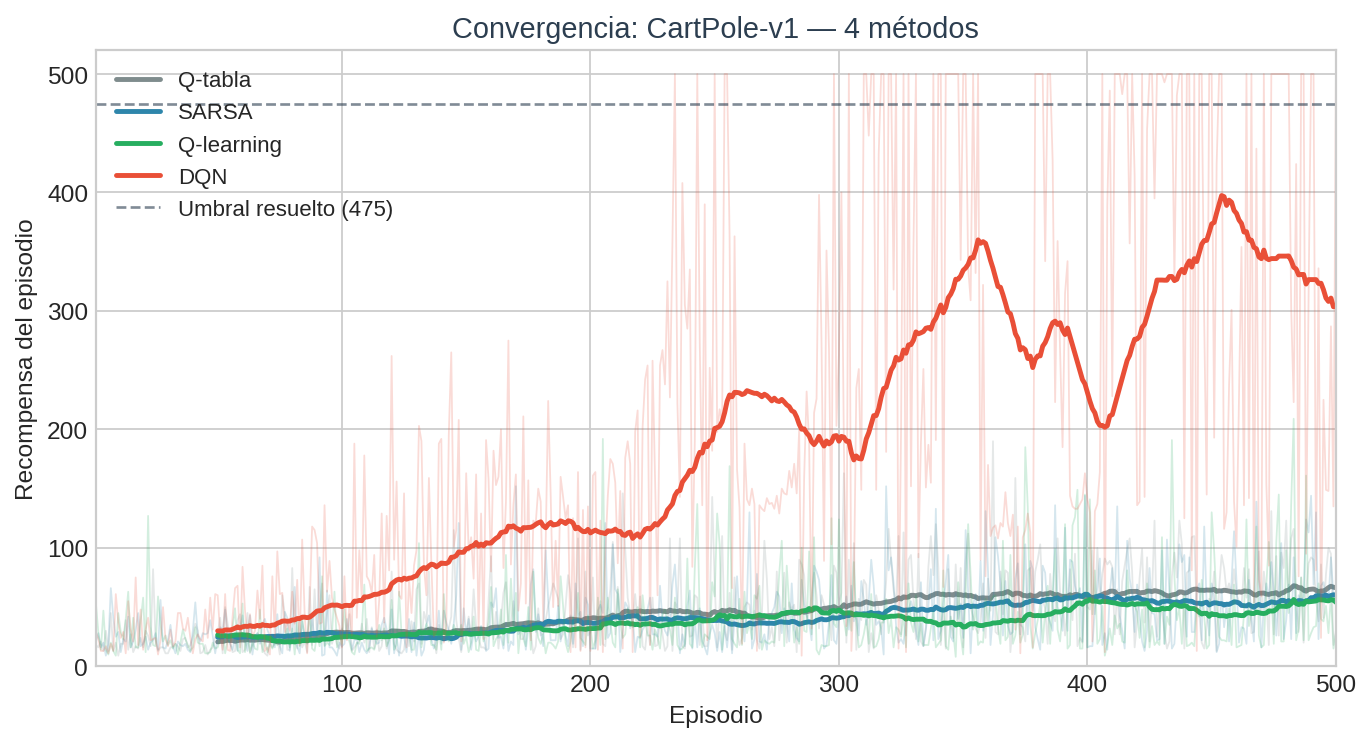
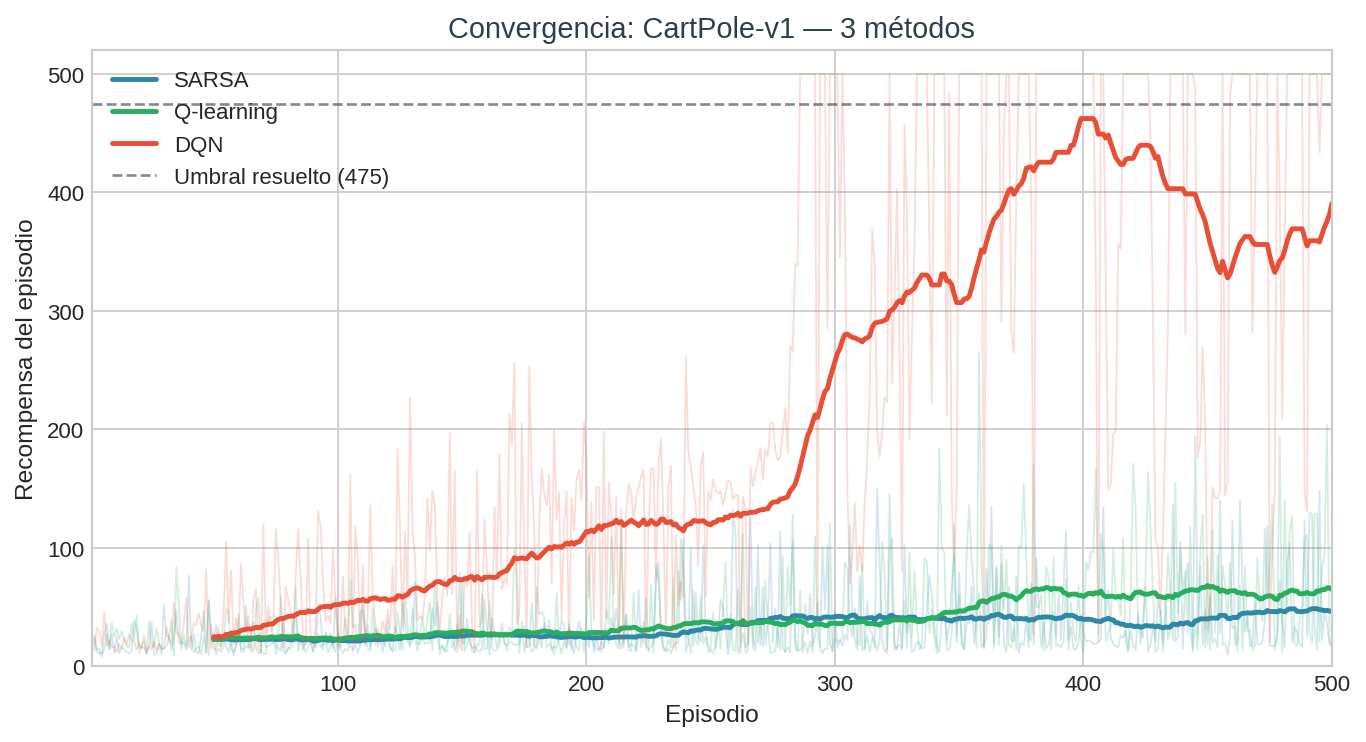
fixed plots q-table vs  q-learning

diff --git a/clase/23_reinforcement_learning/deep_rl/lab_deep_rl.py b/clase/23_reinforcement_learning/deep_rl/lab_deep_rl.py
@@ -11,7 +11,7 @@ Genera 6 imágenes en:
     08_dqn_architecture.png      — diagrama de la red neuronal DQN
     09_experience_replay.png     — buffer de repetición de experiencia
     10_target_network.png        — red online vs red objetivo
-    11_convergence_comparison.png — comparación Q-tabla / SARSA / Q-learning / DQN
+    11_convergence_comparison.png — comparación SARSA / Q-learning / DQN
     12_loss_curve.png            — pérdida de entrenamiento DQN
     13_cartpole_frames.png       — fotogramas de un episodio resuelto
 
@@ -372,46 +372,6 @@ def _discretize(obs, bins):
     return i0, i1, i2, i3
 
 
-def run_qtable(n_episodes=500, alpha=0.1, gamma=0.99,
-               eps_start=1.0, eps_end=0.05, eps_decay=0.995):
-    """Q-learning tabular en CartPole-v1 con estado discretizado."""
-    env = gym.make("CartPole-v1")
-    bins = _make_bins()
-    Q = np.zeros((10, 10, 10, 10, 2))
-    eps = eps_start
-    returns = []
-
-    for _ in range(n_episodes):
-        obs, _ = env.reset()
-        state = _discretize(obs, bins)
-        done = False
-        G = 0.0
-
-        while not done:
-            if np.random.random() < eps:
-                action = env.action_space.sample()
-            else:
-                action = int(np.argmax(Q[state]))
-
-            obs2, reward, terminated, truncated, _ = env.step(action)
-            done = terminated or truncated
-            G += reward
-            next_state = _discretize(obs2, bins)
-
-            # Q-learning update (off-policy)
-            best_next = float(np.max(Q[next_state])) if not done else 0.0
-            Q[state][action] += alpha * (
-                reward + gamma * best_next - Q[state][action]
-            )
-            state = next_state
-
-        eps = max(eps_end, eps * eps_decay)
-        returns.append(G)
-
-    env.close()
-    return returns
-
-
 def run_sarsa(n_episodes=500, alpha=0.1, gamma=0.99,
               eps_start=1.0, eps_end=0.05, eps_decay=0.995):
     """SARSA (on-policy) en CartPole-v1 con estado discretizado."""
@@ -465,9 +425,41 @@ def run_sarsa(n_episodes=500, alpha=0.1, gamma=0.99,
 
 def run_qlearning_tabular(n_episodes=500, alpha=0.1, gamma=0.99,
                            eps_start=1.0, eps_end=0.05, eps_decay=0.995):
-    """Q-learning tabular (alias explícito) en CartPole-v1."""
-    return run_qtable(n_episodes=n_episodes, alpha=alpha, gamma=gamma,
-                      eps_start=eps_start, eps_end=eps_end, eps_decay=eps_decay)
+    """Q-learning tabular (off-policy) en CartPole-v1 con estado discretizado."""
+    env = gym.make("CartPole-v1")
+    bins = _make_bins()
+    Q = np.zeros((10, 10, 10, 10, 2))
+    eps = eps_start
+    returns = []
+
+    for _ in range(n_episodes):
+        obs, _ = env.reset()
+        state = _discretize(obs, bins)
+        done = False
+        G = 0.0
+
+        while not done:
+            if np.random.random() < eps:
+                action = env.action_space.sample()
+            else:
+                action = int(np.argmax(Q[state]))
+
+            obs2, reward, terminated, truncated, _ = env.step(action)
+            done = terminated or truncated
+            G += reward
+            next_state = _discretize(obs2, bins)
+
+            best_next = float(np.max(Q[next_state])) if not done else 0.0
+            Q[state][action] += alpha * (
+                reward + gamma * best_next - Q[state][action]
+            )
+            state = next_state
+
+        eps = max(eps_end, eps * eps_decay)
+        returns.append(G)
+
+    env.close()
+    return returns
 
 
 # ============================================================================
@@ -601,13 +593,11 @@ def run_dqn(n_episodes=500, alpha=1e-3, gamma=0.99,
 # ============================================================================
 # Plot 11 — Comparación de convergencia
 # ============================================================================
-def plot_convergence_comparison(returns_qtable, returns_sarsa,
-                                 returns_qlearning, returns_dqn) -> None:
-    """Curvas de aprendizaje de los 4 métodos superpuestas."""
+def plot_convergence_comparison(returns_sarsa, returns_qlearning, returns_dqn) -> None:
+    """Curvas de aprendizaje de los 3 métodos superpuestas."""
     fig, ax = plt.subplots(figsize=(10, 5))
 
     methods = [
-        ("Q-tabla",    returns_qtable,    COLORS["gray"]),
         ("SARSA",      returns_sarsa,     COLORS["blue"]),
         ("Q-learning", returns_qlearning, COLORS["green"]),
         ("DQN",        returns_dqn,       COLORS["red"]),
@@ -760,8 +750,6 @@ def main() -> None:
     # Entrenamiento de métodos tabulares
     print()
     print("Entrenando métodos tabulares (500 episodios cada uno)...")
-    print("  → Q-tabla...")
-    returns_qtable = run_qtable()
     print("  → SARSA...")
     returns_sarsa = run_sarsa()
     print("  → Q-learning tabular...")
@@ -775,8 +763,7 @@ def main() -> None:
     # Gráficas de resultados
     print()
     print("Generando gráficas de resultados...")
-    plot_convergence_comparison(returns_qtable, returns_sarsa,
-                                returns_qlearning, returns_dqn)
+    plot_convergence_comparison(returns_sarsa, returns_qlearning, returns_dqn)
     plot_loss_curve(loss_history)
 
     # Fotogramas del agente entrenado

diff --git a/clase/23_reinforcement_learning/deep_rl/demo_cartpole.py b/clase/23_reinforcement_learning/deep_rl/demo_cartpole.py
@@ -3,8 +3,8 @@ demo_cartpole.py — Demo interactivo de métodos de RL en CartPole-v1.
 
 Uso:
     python demo_cartpole.py --method dqn                       # ventana live con DQN
-    python demo_cartpole.py --method qtable --speed fast       # Q-tabla, actualización rápida
-    python demo_cartpole.py --compare --episodes 300           # comparar 4 métodos
+    python demo_cartpole.py --method qlearning --speed fast    # Q-learning tabular
+    python demo_cartpole.py --compare --episodes 300           # comparar 3 métodos
     python demo_cartpole.py --method sarsa --episodes 200 --speed slow
 
 En modo live se abre una ventana con 4 paneles:
@@ -13,7 +13,7 @@ En modo live se abre una ventana con 4 paneles:
     - Abajo izquierda  : pérdida MSE (DQN) o decaimiento ε (tabular)
     - Abajo derecha    : distribución Q-valores (DQN) o heatmap Q-tabla (tabular)
 
-En modo --compare se ejecutan los 4 métodos en secuencia con barras de progreso
+En modo --compare se ejecutan los 3 métodos en secuencia con barras de progreso
 en terminal y al final se abre una sola ventana con las curvas superpuestas.
 """
 from __future__ import annotations
@@ -63,14 +63,12 @@ COLORS = {
 }
 
 METHOD_COLORS = {
-    "qtable":    COLORS["gray"],
     "sarsa":     COLORS["blue"],
     "qlearning": COLORS["green"],
     "dqn":       COLORS["red"],
 }
 
 METHOD_LABELS = {
-    "qtable":    "Q-tabla",
     "sarsa":     "SARSA",
     "qlearning": "Q-learning",
     "dqn":       "DQN",
@@ -572,10 +570,10 @@ def _train_headless(method: str, n_episodes: int) -> list[float]:
 # ─────────────────────────────────────────────────────────────────────────────
 
 def run_compare(n_episodes: int) -> None:
-    """Ejecuta los 4 métodos secuencialmente y muestra la ventana final."""
-    print("\nComparando 4 métodos en CartPole-v1:\n")
+    """Ejecuta los 3 métodos secuencialmente y muestra la ventana final."""
+    print("\nComparando 3 métodos en CartPole-v1:\n")
     all_returns: dict[str, list[float]] = {}
-    for i, m in enumerate(["qtable", "sarsa", "qlearning", "dqn"]):
+    for i, m in enumerate(["sarsa", "qlearning", "dqn"]):
         print(f"[{i+1}/4] {METHOD_LABELS[m]}")
         all_returns[m] = _train_headless(m, n_episodes)
         print()
@@ -588,7 +586,7 @@ def _show_comparison_window(results: dict, n_episodes: int) -> None:
     fig, ax = plt.subplots(figsize=(12, 6))
 
     window = 50
-    for m in ["qtable", "sarsa", "qlearning", "dqn"]:
+    for m in ["sarsa", "qlearning", "dqn"]:
         rets = results.get(m, [])
         if not rets:
             continue
@@ -667,14 +665,14 @@ def parse_args():
         epilog="""
 Ejemplos:
   python demo_cartpole.py --method dqn
-  python demo_cartpole.py --method qtable --speed fast
+  python demo_cartpole.py --method qlearning --speed fast
   python demo_cartpole.py --compare --episodes 300
   python demo_cartpole.py --method sarsa --episodes 200 --speed slow
         """
     )
     p.add_argument(
         "--method",
-        choices=["qtable", "sarsa", "qlearning", "dqn"],
+        choices=["sarsa", "qlearning", "dqn"],
         default="dqn",
         help="Algoritmo a ejecutar (default: dqn)"
     )

diff --git a/clase/23_reinforcement_learning/deep_rl/README.md b/clase/23_reinforcement_learning/deep_rl/README.md
@@ -1,7 +1,7 @@
 # Deep RL — CartPole Lab
 
 Live demo and image generation scripts for Module 23 (Reinforcement Learning).
-Trains four methods — Q-table, SARSA, Q-learning, DQN — on CartPole-v1 and lets you
+Trains three methods — SARSA, Q-learning, DQN — on CartPole-v1 and lets you
 watch them learn in real time.
 
 ---
@@ -54,7 +54,7 @@ deactivate
 # Watch DQN learn (recommended first run)
 python demo_cartpole.py --method dqn
 
-# Compare all 4 methods, then see a final summary plot
+# Compare all 3 methods, then see a final summary plot
 python demo_cartpole.py --compare
 ```
 
@@ -62,8 +62,8 @@ python demo_cartpole.py --compare
 
 | Flag | Options | Default | Description |
 |------|---------|---------|-------------|
-| `--method` | `qtable` `sarsa` `qlearning` `dqn` | `dqn` | Algorithm to train |
-| `--compare` | — | off | Run all 4 methods sequentially, show final comparison |
+| `--method` | `sarsa` `qlearning` `dqn` | `dqn` | Algorithm to train |
+| `--compare` | — | off | Run all 3 methods sequentially, show final comparison |
 | `--episodes` | any integer | `500` | Number of training episodes |
 | `--speed` | `fast` `normal` `slow` | `normal` | How often to update the animation window |
 
@@ -84,18 +84,17 @@ python demo_cartpole.py --method dqn
 # Faster run — 200 episodes, update window every 20 steps
 python demo_cartpole.py --method dqn --episodes 200 --speed fast
 
-# Watch a tabular method (Q-table or SARSA or Q-learning)
-python demo_cartpole.py --method qtable
+# Watch a tabular method (SARSA or Q-learning)
 python demo_cartpole.py --method sarsa
 python demo_cartpole.py --method qlearning
 
 # Slow motion — see every step clearly
 python demo_cartpole.py --method dqn --episodes 100 --speed slow
 
-# Compare all 4 methods with 300 episodes each
+# Compare all 3 methods with 300 episodes each
 python demo_cartpole.py --compare --episodes 300
 
-# Quick comparison (150 episodes per method, ~3-4 min total)
+# Quick comparison (150 episodes per method, ~2-3 min total)
 python demo_cartpole.py --compare --episodes 150
 ```
 
@@ -147,11 +146,11 @@ Shows at a glance: current episode, current ε, 50-episode average reward, and (
 
 The per-episode time in the terminal is itself a signal: if episodes are taking 2-4 seconds each, the pole is surviving for hundreds of steps — the agent is solving it.
 
-**With tabular methods (`--method qtable/sarsa/qlearning`):**
+**With tabular methods (`--method sarsa/qlearning`):**
 The reward curve climbs a bit early (the agent learns to avoid the worst actions) but then plateaus around 50-80. The discretization loses too much information — nearby continuous states get treated as unrelated. The Q-table heatmap shows which state regions got visited, but the agent can never generalize across bins.
 
 **With `--compare`:**
-The 4 methods run sequentially in the terminal (with tqdm progress bars). At the end, a single window shows all 4 convergence curves overlaid. The DQN line should climb clearly above the three flat tabular lines.
+The 3 methods run sequentially in the terminal (with tqdm progress bars). At the end, a single window shows all 3 convergence curves overlaid. The DQN line should climb clearly above the two flat tabular lines.
 
 ### Headless environments (no display)
 
@@ -180,7 +179,7 @@ Output goes to `../images/`. Expected runtime: ~5-8 minutes on a modern CPU.
 | 08 | `08_dqn_architecture.png` | Network diagram: 4→64→64→2 with ReLU |
 | 09 | `09_experience_replay.png` | Replay buffer: store arrow + random sample arrow |
 | 10 | `10_target_network.png` | Online vs frozen target network, copy arrow, TD equation |
-| 11 | `11_convergence_comparison.png` | All 4 methods over 500 episodes with rolling averages |
+| 11 | `11_convergence_comparison.png` | All 3 methods over 500 episodes with rolling averages |
 | 12 | `12_loss_curve.png` | DQN MSE loss vs training step with buffer-full annotation |
 | 13 | `13_cartpole_frames.png` | 4 frames from a solved episode (pole stays vertical) |
 

diff --git a/clase/23_reinforcement_learning/08_laboratorio_aplicado.md b/clase/23_reinforcement_learning/08_laboratorio_aplicado.md
@@ -48,16 +48,15 @@ Un agente aleatorio dura típicamente 10-20 pasos.
 
 ---
 
-## Los cuatro métodos en comparación
+## Los tres métodos en comparación
 
 | Método | Representación del estado | Tipo de política | ¿Converge en CartPole? | Episodios aprox. para resolver |
 |--------|--------------------------|-----------------|----------------------|-------------------------------|
-| Q-tabla | Discretizado $10^4$ bins | $\varepsilon$-greedy sobre tabla | Apenas (plateau ~50-80) | No resuelve |
 | SARSA | Discretizado $10^4$ bins | $\varepsilon$-greedy on-policy | Apenas (plateau ~50-80) | No resuelve |
 | Q-learning | Discretizado $10^4$ bins | $\varepsilon$-greedy off-policy | Apenas (plateau ~50-80) | No resuelve |
 | DQN | Continuo (4 valores reales) | $\varepsilon$-greedy sobre $Q_\theta$ | Sí | ~300-400 episodios |
 
-Los tres métodos tabulares usan 10 bins por dimensión → $10 \times 10 \times 10 \times 10 = 10{,}000$ estados discretos.
+Los dos métodos tabulares usan 10 bins por dimensión → $10 \times 10 \times 10 \times 10 = 10{,}000$ estados discretos.
 La discretización pierde información: dos estados con ángulos de $11.9°$ y $12.1°$ caen en bins distintos y reciben valores $Q$ completamente independientes.
 DQN no discretiza — procesa los 4 valores directamente y puede interpolar entre estados similares.
 
@@ -94,11 +93,11 @@ Una pérdida que no baja es señal de que la tasa de aprendizaje es demasiado al
 python demo_cartpole.py --compare --episodes 300
 ```
 
-Los cuatro métodos corren en paralelo.
+Los tres métodos corren en secuencia.
 Al final se muestra un gráfico con la media móvil de 50 episodios para cada uno.
 
 La diferencia es visual e inmediata:
-- Q-tabla, SARSA y Q-learning forman tres líneas planas a baja recompensa (~50-80).
+- SARSA y Q-learning forman dos líneas planas a baja recompensa (~50-80).
 - DQN sube continuamente hasta cruzar 475.
 
 ---
@@ -107,7 +106,7 @@ La diferencia es visual e inmediata:
 
 ![Comparación de convergencia]({{ '/23_reinforcement_learning/images/11_convergence_comparison.png' | url }})
 
-Los tres métodos tabulares se estabilizan en recompensas bajas porque la discretización pierde información crítica.
+Los dos métodos tabulares se estabilizan en recompensas bajas porque la discretización pierde información crítica.
 Dos estados con ángulos similares se tratan como completamente distintos, así que el agente no puede generalizar.
 DQN, al operar sobre el vector continuo, aprende que estados similares tienen valores similares — la red interpola de forma natural porque comparte pesos entre todos los estados.
 
@@ -130,9 +129,8 @@ El comportamiento emergente es notable: el carro se mueve suavemente de lado a l
 python demo_cartpole.py --method dqn                     # DQN — recomendado para ver convergencia
 python demo_cartpole.py --method sarsa                   # SARSA on-policy tabular
 python demo_cartpole.py --method qlearning               # Q-learning off-policy tabular
-python demo_cartpole.py --method qtable --speed fast     # Q-tabla, sin animación lenta
 
-# Comparar todos los métodos (terminal + ventana final)
+# Comparar los 3 métodos (terminal + ventana final)
 python demo_cartpole.py --compare --episodes 300
 
 # Ajustar velocidad y duración

diff --git a/clase/23_reinforcement_learning/09_resultados_comparacion.md b/clase/23_reinforcement_learning/09_resultados_comparacion.md
@@ -23,7 +23,6 @@ Con esa advertencia clara, miremos lo que sí muestra esta corrida.
 
 | Método | Primeros 10 ep (avg) | Últimos 50 ep (avg) | Mejor media móvil 50 ep | Mejor episodio | Cruzó 200 en ep | Cruzó 475 en ep |
 |--------|---------------------|---------------------|------------------------|----------------|-----------------|-----------------|
-| Q-tabla | 25.8 | 33.4 | 44.5 | 131 | — | — |
 | SARSA | 23.8 | 44.2 | 61.5 | 247 | — | — |
 | Q-learning | 19.8 | 64.9 | 70.1 | 290 | — | — |
 | DQN | 18.7 | **387.5** | **412.1** | **500** | ep 289 | no alcanzado* |
@@ -35,7 +34,7 @@ El umbral oficial de 475 no se cruzó en esta corrida de 500 episodios — DQN l
 
 ## Métodos tabulares: el problema de cobertura
 
-Los tres métodos tabulares (Q-tabla, SARSA, Q-learning) parten del mismo supuesto:
+Los dos métodos tabulares (SARSA, Q-learning) parten del mismo supuesto:
 *hay una celda en la tabla para cada par $(s, a)$ posible.*
 
 Con 10 bins por dimensión, CartPole tiene $10^4 \times 2 = 20{,}000$ pares estado-acción.
@@ -43,7 +42,6 @@ Con 10 bins por dimensión, CartPole tiene $10^4 \times 2 = 20{,}000$ pares esta
 
 | Método | Pares visitados | Cobertura |
 |--------|----------------|-----------|
-| Q-tabla | 445 / 20 000 | **2.2 %** |
 | SARSA | 499 / 20 000 | **2.5 %** |
 | Q-learning | 692 / 20 000 | **3.5 %** |
 
@@ -132,13 +130,12 @@ Esa generalización es la ventaja decisiva de la aproximación de funciones.
 
 ## Diferencias entre los métodos tabulares
 
-Dentro de los tres métodos tabulares, Q-learning obtiene la mejor recompensa final (64.9 vs 44.2 vs 33.4).
+Q-learning obtiene la mejor recompensa final (64.9 vs 44.2 de SARSA).
 
 Esto es consistente con la teoría:
 
 - **Q-learning** aprende $Q^∗$ directamente (off-policy, usa $\max_b Q(s',b)$) — extrae el máximo valor posible de cada transición, independientemente de la política que la generó.
 - **SARSA** aprende $Q^{\pi_\varepsilon}$ (on-policy, usa $Q(s',a')$ con $a' \sim \pi_\varepsilon$) — el valor de la política que ejecuta, incluyendo el ruido de exploración.
-- **Q-tabla** es estructuralmente idéntico a Q-learning en esta implementación — la diferencia en resultados refleja varianza de muestreo.
 
 La ventaja de Q-learning sobre SARSA se amplifica cuando $\varepsilon$ es alto (mucha exploración), porque SARSA "contamina" su target con acciones exploratorias.
 Con $\varepsilon \to 0$ ambos convergen al mismo resultado.